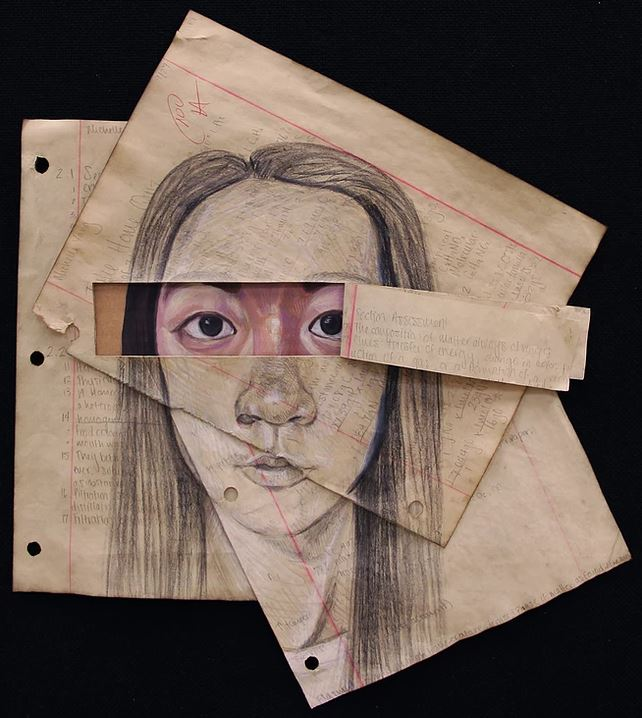
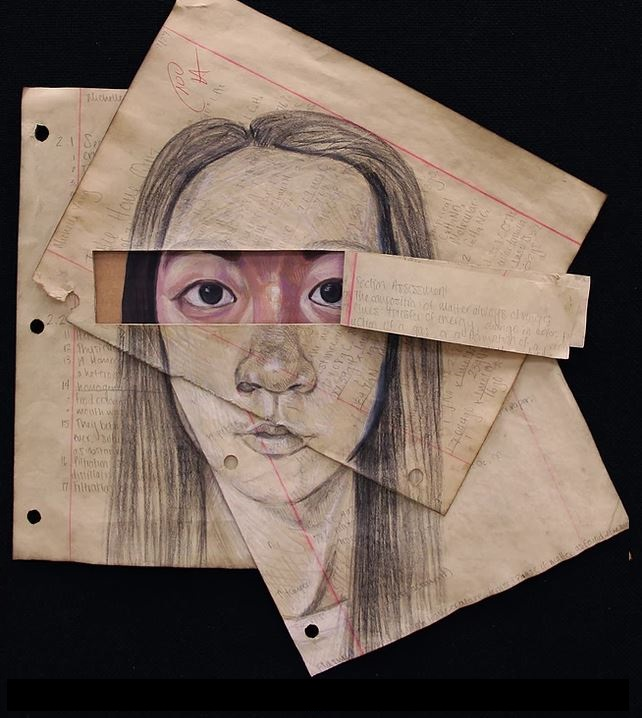
Added art award

diff --git a/src/portfolio.js b/src/portfolio.js
@@ -33,14 +33,14 @@ const skillsSection = {
   title: "What I like",
   subTitle: "",
   skills: [
-    emoji("⚡ Full-stack Software Engineering"),
-    emoji("⚡ Customer-facing Products"),
-    emoji("⚡ Web & Mobile Application Development"),
-    emoji("⚡ Integration with Cloud Services"),
-    emoji("⚡ Longboarding"),
-    emoji("⚡ Bullet-journaling"),
-    emoji("⚡ Hiking"),
-    emoji("⚡ Creating Art")
+    emoji("✔ Full-stack Software Engineering"),
+    emoji("✔ Customer-facing Products"),
+    emoji("✔ Web & Mobile Application Development"),
+    emoji("✔ Integration with Cloud Services"),
+    emoji("✔ Longboarding"),
+    emoji("✔ Bullet-journaling"),
+    emoji("✔ Hiking"),
+    emoji("✔ Creating Art")
   ],
 
 /* Make Sure You include correct Font Awesome Classname to view your icon
@@ -115,7 +115,7 @@ const educationInfo = {
       // desc: "Threads: Intelligence and Media",
       descBullets: [
         "Threads: Intelligence and Media",
-        "GPA: 3.81/4.0",
+        "GPA: 3.81 / 4.0",
         "Honors Progam student and Faculty Honors recipient",
         "National Merit Scholar"
       ]
@@ -236,7 +236,7 @@ const bigProjects = {
 
 const achievementSection = {
 
-  title: emoji("Other things I do"),
+  title: emoji("Other things I've done"),
   subtitle: "Awards and neat stuff",
 
   achievementsCards: [
@@ -245,9 +245,8 @@ const achievementSection = {
       subtitle: "1 of 9 students (0.03% of exam takers around the world in 2017) to receive a perfect score.",
       image: require("./assets/images/myArt.JPG"),
       footerLink: [
-        { name: "Certification", url: "https://drive.google.com/file/d/0B7kazrtMwm5dYkVvNjdNWjNybWJrbndFSHpNY2NFV1p4YmU0/view?usp=sharing" },
-        { name: "Award Letter", url: "https://drive.google.com/file/d/0B7kazrtMwm5dekxBTW5hQkg2WXUyR3QzQmR0VERiLXlGRVdF/view?usp=sharing" },
-        { name: "Google Code-in Blog", url: "https://opensource.googleblog.com/2019/01/google-code-in-2018-winners.html" }
+        { name: "Award Letter", url: "https://drive.google.com/file/d/1oo2QKwNbys7JR5Zg6wdZhbVwT8SYNt6V/view?usp=sharing" },
+        { name: "Portfolio", url: "https://michelleandschool.wixsite.com/balance/concentration" }
       ]
     },
     {
